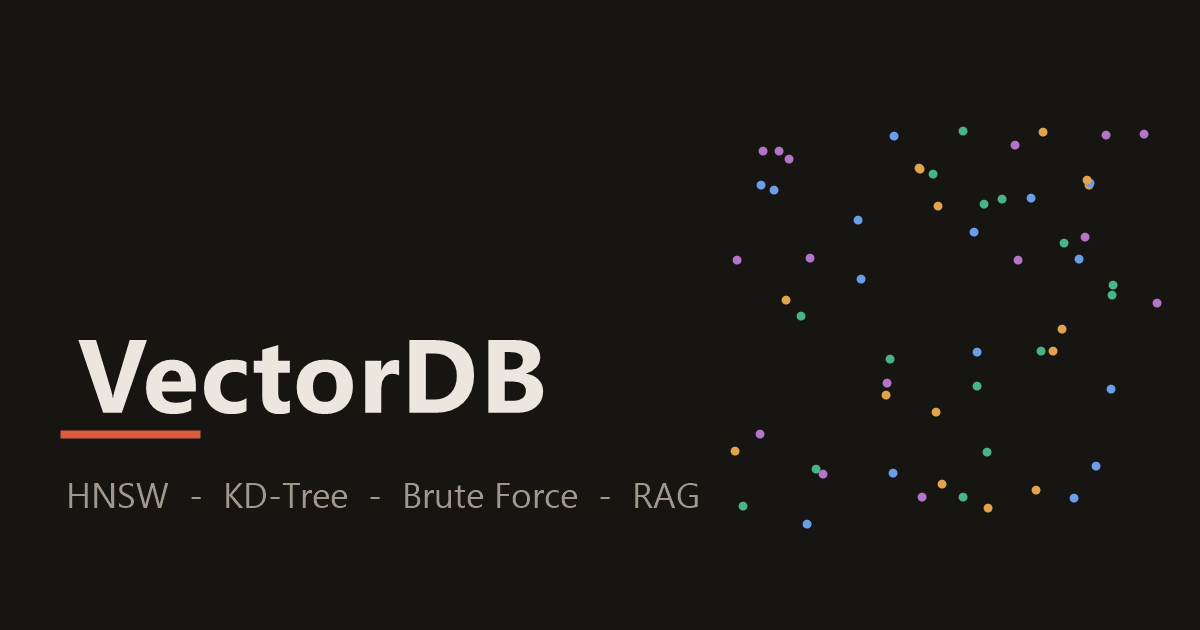
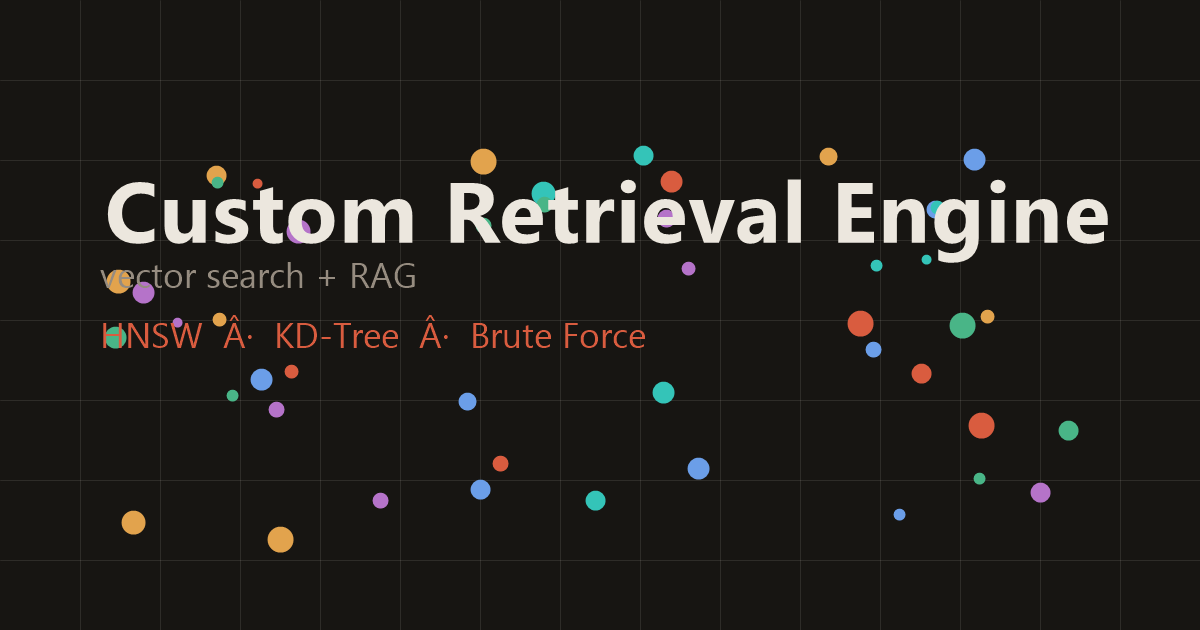
Initial commit

diff --git a/index.html b/index.html
@@ -3,17 +3,17 @@
 <head>
 <meta charset="UTF-8">
 <meta name="viewport" content="width=device-width, initial-scale=1">
-<title>VectorDB — vector search + RAG</title>
+<title>Custom Retrieval Engine — vector search + RAG</title>
 <meta name="description" content="A from-scratch vector database: HNSW, KD-Tree and brute force search side by side, plus a document store and grounded RAG. Deployed as Vercel serverless functions.">
 <meta property="og:type" content="website">
-<meta property="og:title" content="VectorDB — vector search + RAG">
+<meta property="og:title" content="Custom Retrieval Engine — vector search + RAG">
 <meta property="og:description" content="HNSW, KD-Tree and brute force search from scratch, plus a document store and grounded RAG pipeline.">
-<meta property="og:image" content="https://vectordb-vercel.vercel.app/og.png">
-<meta property="og:url" content="https://vectordb-vercel.vercel.app">
+<meta property="og:image" content="https://customrag.vercel.app/og.png">
+<meta property="og:url" content="https://customrag.vercel.app">
 <meta name="twitter:card" content="summary_large_image">
-<meta name="twitter:title" content="VectorDB — vector search + RAG">
+<meta name="twitter:title" content="Custom Retrieval Engine — vector search + RAG">
 <meta name="twitter:description" content="HNSW, KD-Tree and brute force search from scratch, plus a document store and grounded RAG pipeline.">
-<meta name="twitter:image" content="https://vectordb-vercel.vercel.app/og.png">
+<meta name="twitter:image" content="https://customrag.vercel.app/og.png">
 <style>
 :root {
   --bg:      #171512;
@@ -224,7 +224,7 @@ button {
 <body>
 
 <header>
-  <h1>VectorDB</h1>
+  <h1>Custom Retrieval Engine</h1>
   <span class="sub">HNSW &middot; KD-Tree &middot; Brute Force &middot; RAG</span>
   <span class="spacer"></span>
   <span class="pill" id="groqBadge">Checking&hellip;</span>
@@ -522,7 +522,7 @@ function drawFrame() {
   }
   if (!pcaPoints.length) {
     ctx.fillStyle=T('--muted');ctx.font='13px ' + getComputedStyle(document.body).fontFamily;ctx.textAlign='center';
-    ctx.fillText('Connecting to VectorDB\u2026',sc.width/2,sc.height/2);ctx.textAlign='left';
+    ctx.fillText('Connecting to Custom Retrieval Engine\u2026',sc.width/2,sc.height/2);ctx.textAlign='left';
   }
   pulse+=0.05;
   requestAnimationFrame(drawFrame);

diff --git a/api/_lib/store.js b/api/_lib/store.js
@@ -239,7 +239,7 @@ async function docAsk(question, k) {
 async function wikiSearch(topic) {
   const url = 'https://en.wikipedia.org/w/api.php?action=query&list=search&srsearch=' + encodeURIComponent(topic) +
     '&format=json&srlimit=3';
-  const r = await fetch(url, { headers: { 'User-Agent': 'VectorDB-RAG/1.0' } });
+  const r = await fetch(url, { headers: { 'User-Agent': 'CustomRetrievalEngine-RAG/1.0' } });
   const d = await r.json();
   return (d.query && d.query.search ? d.query.search : []).map(s => s.title);
 }
@@ -247,7 +247,7 @@ async function wikiSearch(topic) {
 async function wikiFetch(title) {
   const url = 'https://en.wikipedia.org/w/api.php?action=query&prop=extracts&explaintext=1&redirects=1&format=json&titles=' +
     encodeURIComponent(title);
-  const r = await fetch(url, { headers: { 'User-Agent': 'VectorDB-RAG/1.0' } });
+  const r = await fetch(url, { headers: { 'User-Agent': 'CustomRetrievalEngine-RAG/1.0' } });
   const d = await r.json();
   const pages = d.query && d.query.pages ? Object.values(d.query.pages) : [];
   for (const pg of pages) {

diff --git a/README.md b/README.md
@@ -1,10 +1,10 @@
-# VectorDB
+# Custom Retrieval Engine
 
 A vector database built from scratch — three search indexes, a document store,
 and a grounded RAG pipeline, running as Vercel serverless functions behind a
 single-page UI.
 
-**Live demo: [https://vectordb-vercel.vercel.app](https://vectordb-vercel.vercel.app)**
+**Live demo: [https://customrag.vercel.app](https://customrag.vercel.app)**
 
 I've always been curious about what actually goes on inside tools like Pinecone
 or Weaviate, so instead of pulling in a library I wrote the whole thing myself.
@@ -116,7 +116,7 @@ Base path: `/api`
 Example:
 
 ```bash
-curl -X POST https://vectordb-vercel.vercel.app/api/doc/ask \
+curl -X POST https://customrag.vercel.app/api/doc/ask \
   -H "Content-Type: application/json" \
   -d '{"question":"What is dynamic programming?","k":3}'
 ```
